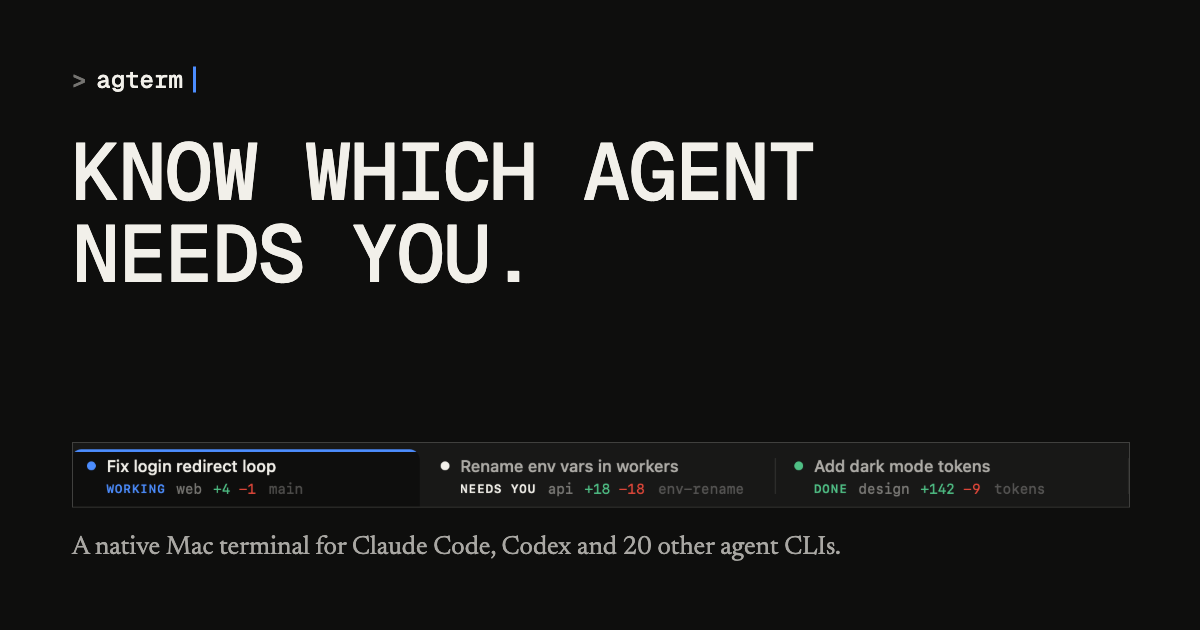
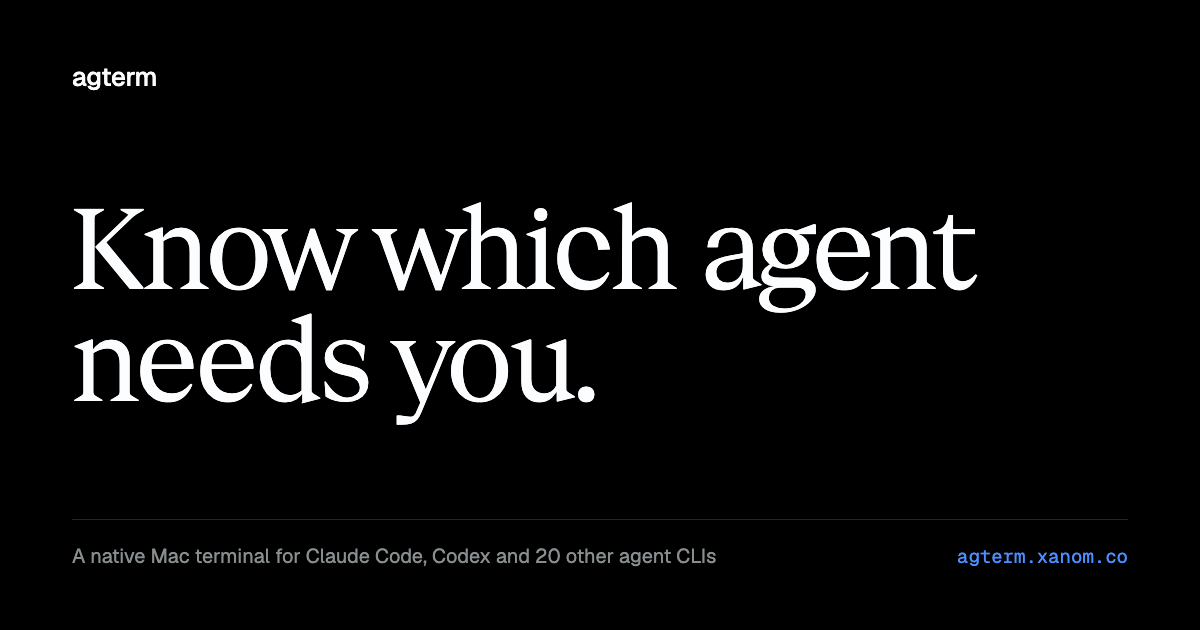
feat: regenerate link-preview image in Blackletter

diff --git a/site/og/og.html b/site/og/og.html
@@ -1,0 +1,18 @@
+<!doctype html>
+<html><head><meta charset="utf-8">
+<!-- Source for the link-preview image next to this file. Render at exactly 1200x630 with headless Chrome. Blackletter (~/DESIGN.md), same family as xanom-co/og/og.html. -->
+<link rel="stylesheet" href="https://fonts.googleapis.com/css2?family=Geist:wght@400;500&family=Geist+Mono:wght@400&display=swap">
+<style>
+  @font-face{font-family:"Geist Serif";src:url(https://cdn.jsdelivr.net/npm/geist@1.9.0/dist/fonts/geist-serif/GeistSerifVF.woff2) format("woff2");font-weight:100 900}
+  html,body{margin:0;width:1200px;height:630px;background:#000;color:#FCFDFF}
+  body{display:flex;flex-direction:column;justify-content:space-between;padding:64px 72px;box-sizing:border-box;font-family:"Geist",sans-serif}
+  .l{font:500 26px/1 "Geist";letter-spacing:-.01em}
+  h1{font:400 112px/1 "Geist Serif",Georgia,serif;letter-spacing:-.02em;margin:0}
+  .row{display:flex;justify-content:space-between;align-items:baseline;gap:40px;font:400 20px/1 "Geist";color:#888E90;border-top:1px solid rgba(255,255,255,.14);padding-top:26px}
+  .row .d{font:400 19px/1 "Geist Mono",monospace;color:#4C8DFF;white-space:nowrap}
+</style></head>
+<body>
+  <div class="l">agterm</div>
+  <h1>Know which agent<br>needs you.</h1>
+  <div class="row"><span>A native Mac terminal for Claude Code, Codex and 20 other agent CLIs</span><span class="d">agterm.xanom.co</span></div>
+</body></html>

diff --git a/site/index.html b/site/index.html
@@ -16,7 +16,7 @@
   <meta property="og:image" content="https://agterm.xanom.co/og.png">
   <meta property="og:image:width" content="1200">
   <meta property="og:image:height" content="630">
-  <meta property="og:image:alt" content="agterm: know which agent needs you. Three tab cards marked working, needs you and done, each with its folder, diff and branch.">
+  <meta property="og:image:alt" content="agterm: know which agent needs you. A native Mac terminal for Claude Code, Codex and 20 other agent CLIs.">
   <meta name="twitter:card" content="summary_large_image">
   <link rel="icon" type="image/svg+xml" href="/favicon.svg">
   <link rel="preconnect" href="https://fonts.googleapis.com">
